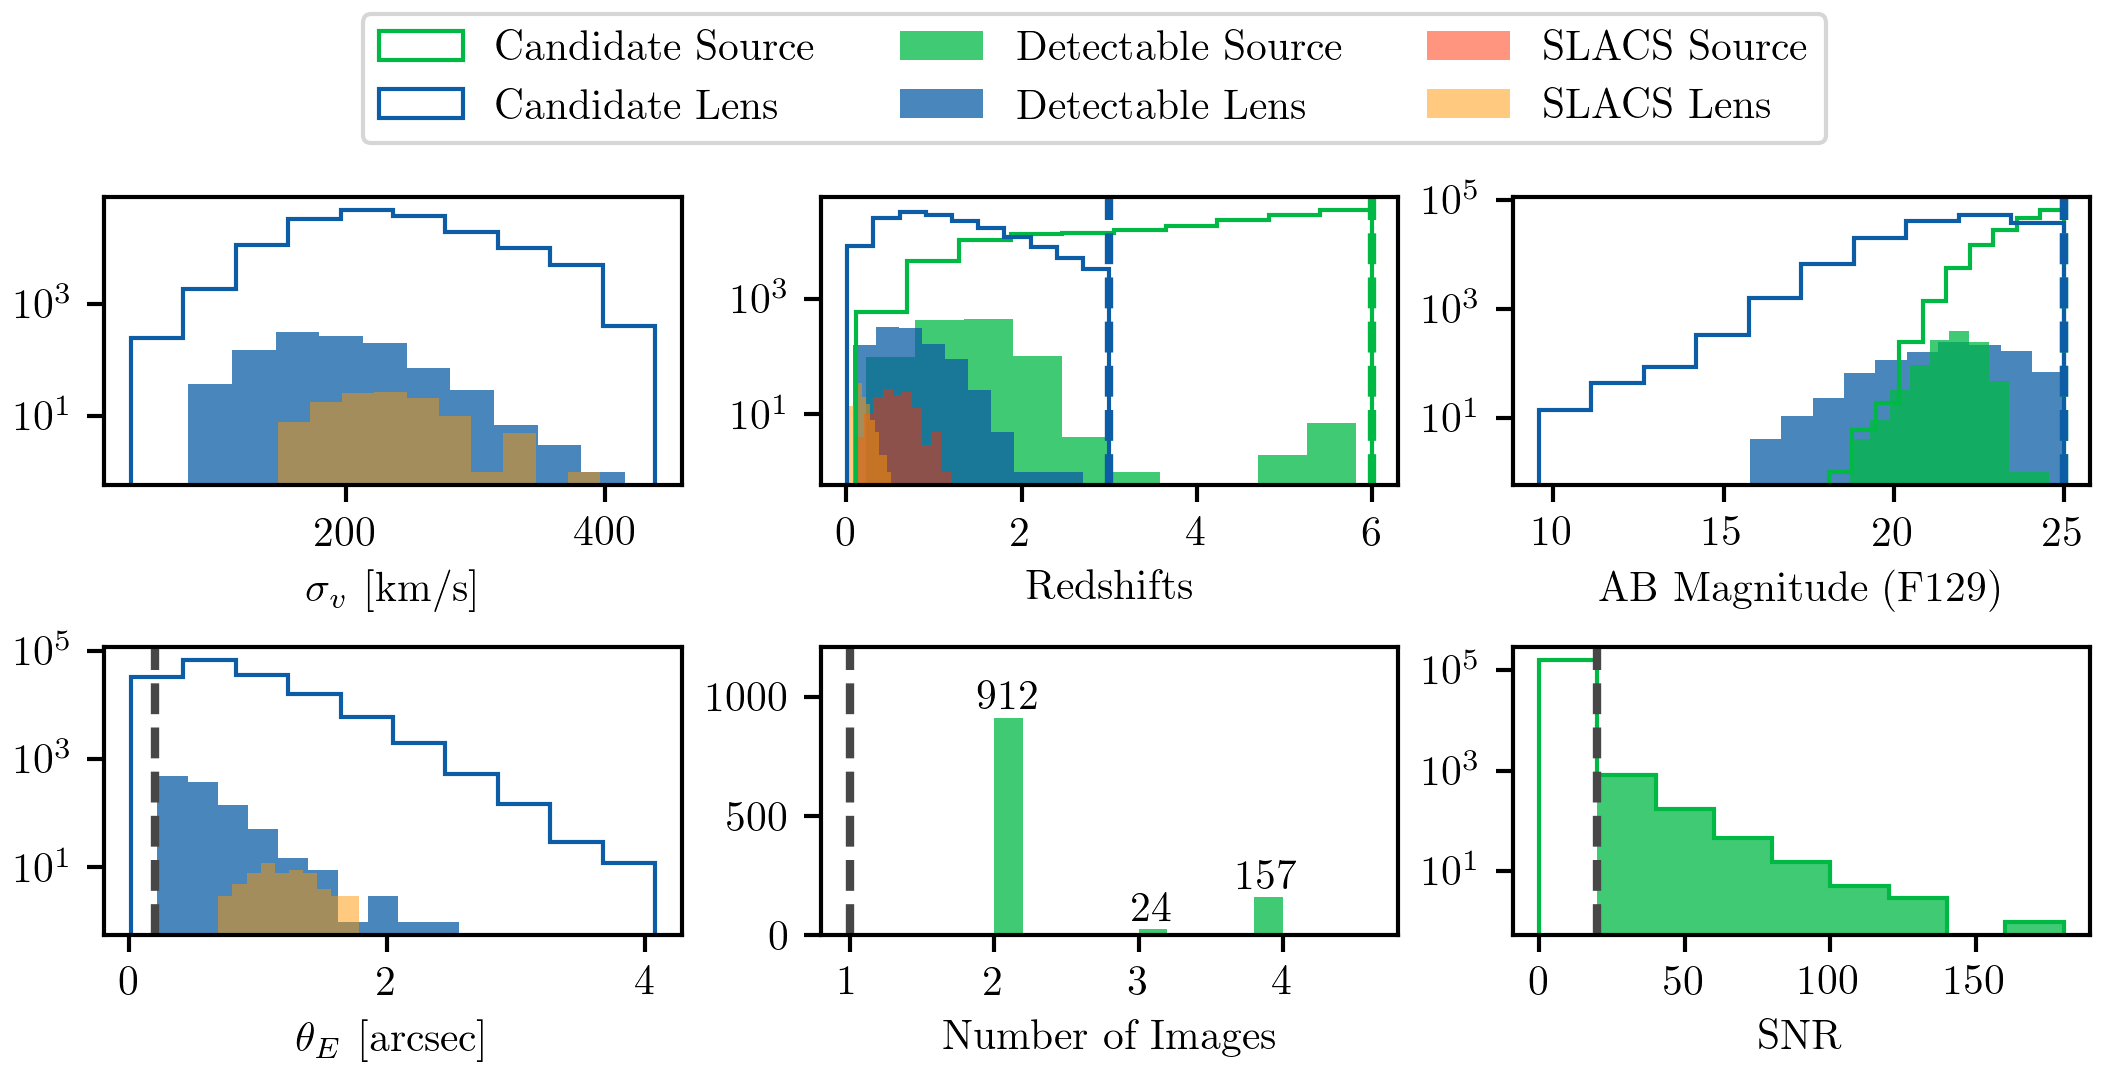
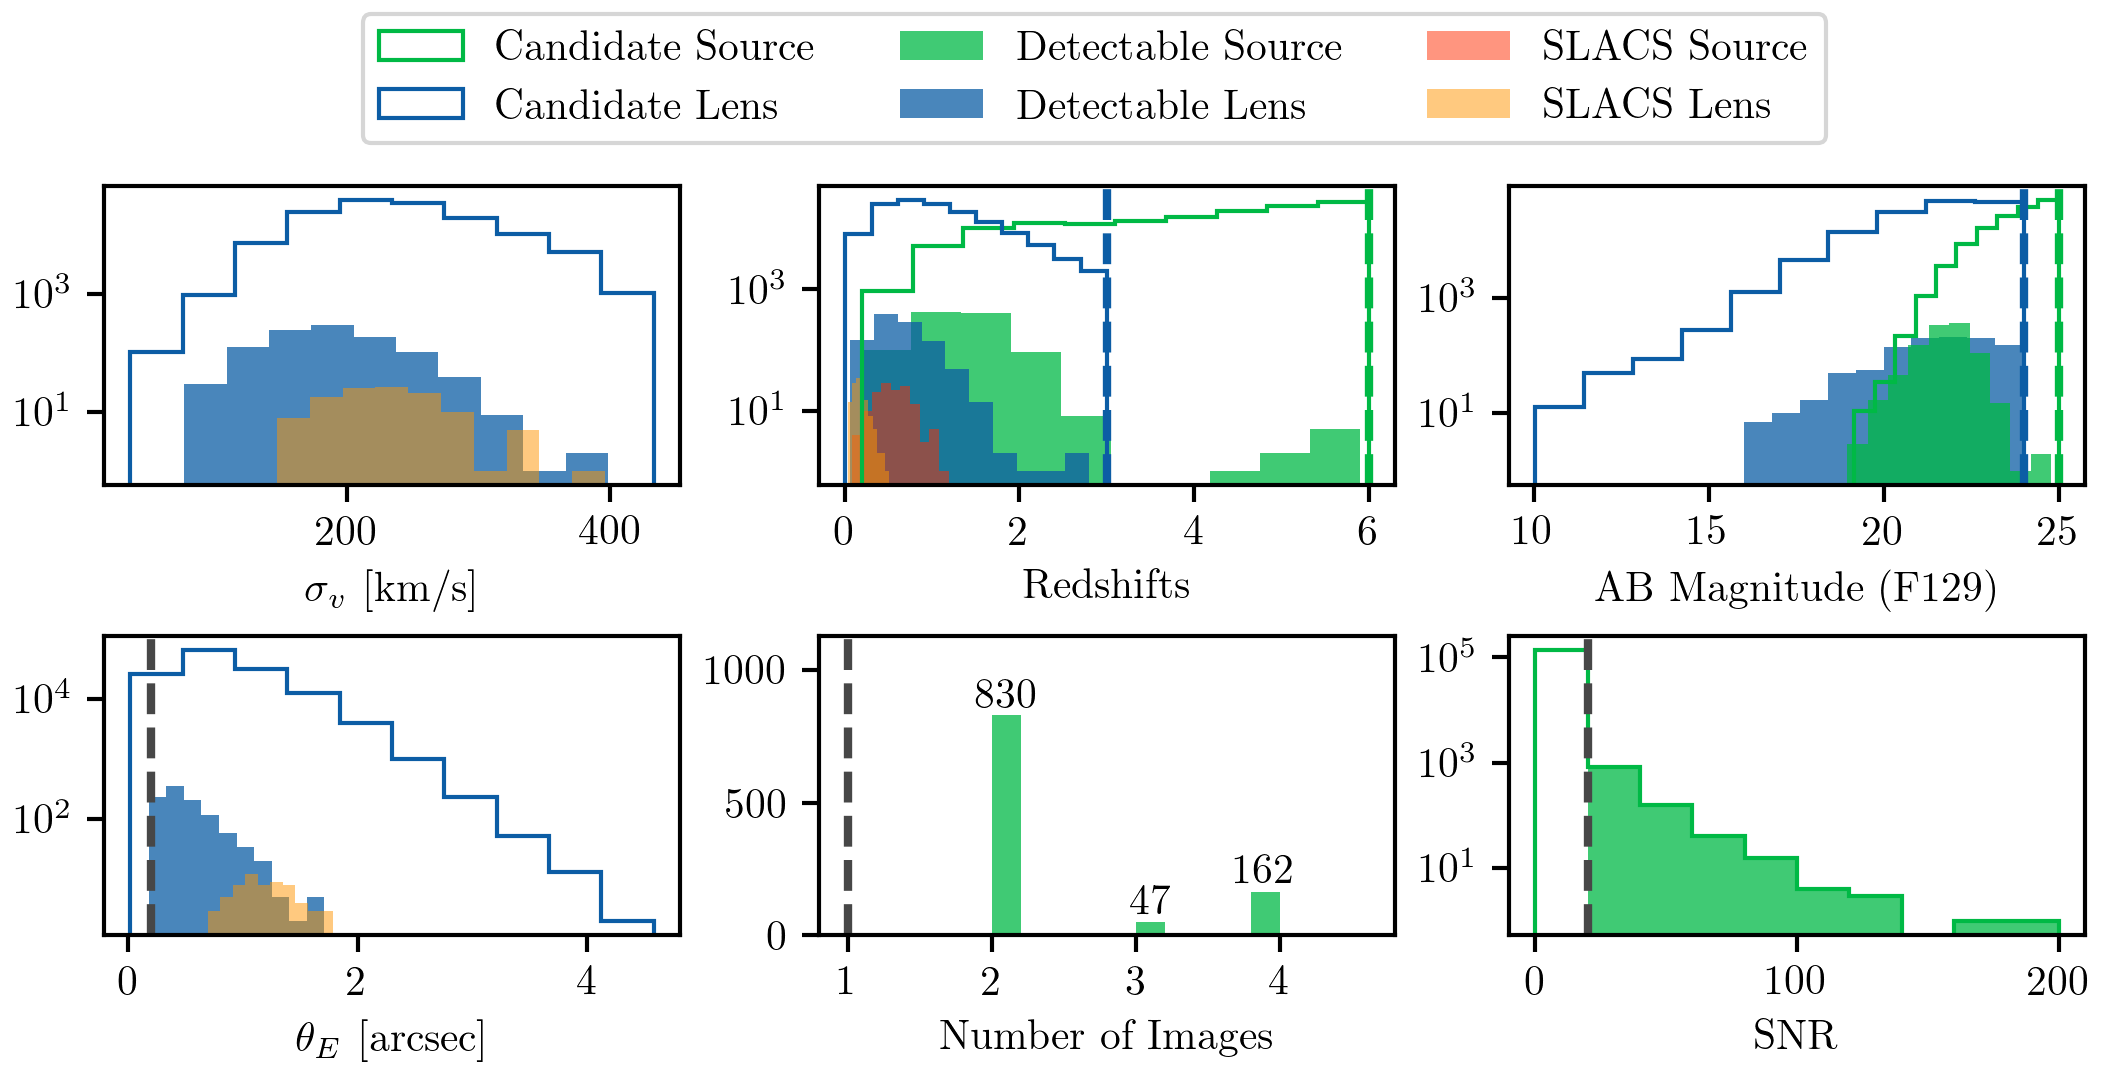
get 10k detectable lenses

diff --git a/pipeline/scripts/00_hlwas_sim.py b/pipeline/scripts/00_hlwas_sim.py
@@ -52,6 +52,8 @@ def main(config):
         print(f'Set up debugging directory {debug_dir}')
         util.create_directory_if_not_exists(os.path.join(debug_dir, 'max_recursion_limit'))
         util.create_directory_if_not_exists(os.path.join(debug_dir, 'snr'))
+    else:
+        debug_dir = None
 
     # tuple the parameters
     runs = survey_params['runs']
@@ -161,47 +163,48 @@ def run_slsim(tuple):
     if debugging: print('Defined galaxy population')
 
     # draw the total lens population
-    if debugging: print('Identifying lenses...')
-    kwargs_lens_total_cut = {
-        'min_image_separation': 0,
-        'max_image_separation': 10,
-        'mag_arc_limit': None
-    }
-    total_lens_population = lens_pop.draw_population(kwargs_lens_cuts=kwargs_lens_total_cut)
-    if debugging: print(f'Number of total lenses: {len(total_lens_population)}')
+    if survey_params['total_population']:
+        if debugging: print('Identifying lenses...')
+        kwargs_lens_total_cut = {
+            'min_image_separation': 0,
+            'max_image_separation': 10,
+            'mag_arc_limit': None
+        }
+        total_lens_population = lens_pop.draw_population(kwargs_lens_cuts=kwargs_lens_total_cut)
+        if debugging: print(f'Number of total lenses: {len(total_lens_population)}')
 
-    # compute SNRs and save
-    if debugging: print(f'Computing SNRs for {len(total_lens_population)} lenses')
-    snr_list = []
-    # j = 0
-    for candidate in tqdm(total_lens_population, disable=not debugging):
-        snr, _, _, _ = survey_sim.get_snr(candidate, 
-                                          band=survey_params['snr_band'], 
-                                          num_pix=survey_params['snr_num_pix'], 
-                                          side=survey_params['snr_side'], 
-                                          oversample=survey_params['snr_oversample'], 
-                                          debugging=False)
-        if snr is None:
-            continue
-        snr_list.append(snr)
-        # if debugging:
-        #     if j < 25:
-        #         util.pickle(os.path.join(output_dir, f'masked_snr_array_{str(j).zfill(8)}.pkl'), masked_snr_array)
-        #         util.pickle(os.path.join(output_dir, f'masked_snr_array_snr_{str(j).zfill(8)}.pkl'), snr)
-        # j += 1
-    np.save(os.path.join(output_dir, f'snr_list_{run}_sca{sca_id}.npy'), snr_list)
+        # compute SNRs and save
+        if debugging: print(f'Computing SNRs for {len(total_lens_population)} lenses')
+        snr_list = []
+        # j = 0
+        for candidate in tqdm(total_lens_population, disable=not debugging):
+            snr, _, _, _ = survey_sim.get_snr(candidate, 
+                                            band=survey_params['snr_band'], 
+                                            num_pix=survey_params['snr_num_pix'], 
+                                            side=survey_params['snr_side'], 
+                                            oversample=survey_params['snr_oversample'], 
+                                            debugging=False)
+            if snr is None:
+                continue
+            snr_list.append(snr)
+            # if debugging:
+            #     if j < 25:
+            #         util.pickle(os.path.join(output_dir, f'masked_snr_array_{str(j).zfill(8)}.pkl'), masked_snr_array)
+            #         util.pickle(os.path.join(output_dir, f'masked_snr_array_snr_{str(j).zfill(8)}.pkl'), snr)
+            # j += 1
+        np.save(os.path.join(output_dir, f'snr_list_{run}_sca{sca_id}.npy'), snr_list)
 
-    if debugging:
-        num_exceptions = len([snr for snr in snr_list if snr is None])
-        print(f'Number of exceptions: {num_exceptions}; {num_exceptions / len(snr_list) * 100:.2f}%')
+        if debugging:
+            num_exceptions = len([snr for snr in snr_list if snr is None])
+            print(f'Number of exceptions: {num_exceptions}; {num_exceptions / len(snr_list) * 100:.2f}%')
 
-    # TODO once get_regions issue(s) resolved, the following line should be reinstated
-    # assert len(total_lens_population) == len(snr_list), f'Lengths of total_lens_population ({len(total_lens_population)}) and snr_list ({len(snr_list)}) do not match.'
+        # TODO once get_regions issue(s) resolved, the following line should be reinstated
+        # assert len(total_lens_population) == len(snr_list), f'Lengths of total_lens_population ({len(total_lens_population)}) and snr_list ({len(snr_list)}) do not match.'
 
-    # save other params to CSV
-    total_pop_csv = os.path.join(output_dir, f'total_pop_{run}_sca{sca_id}.csv')
-    if debugging: print(f'Writing total population to {total_pop_csv}')
-    survey_sim.write_lens_pop_to_csv(total_pop_csv, total_lens_population, snr_list, bands, suppress_output=not debugging)
+        # save other params to CSV
+        total_pop_csv = os.path.join(output_dir, f'total_pop_{run}_sca{sca_id}.csv')
+        if debugging: print(f'Writing total population to {total_pop_csv}')
+        survey_sim.write_lens_pop_to_csv(total_pop_csv, total_lens_population, snr_list, bands, suppress_output=not debugging)
 
     # draw initial detectable lens population
     if debugging: print('Identifying detectable lenses...')
@@ -240,7 +243,7 @@ def run_slsim(tuple):
         # 2. SNR
         snr, masked_snr_array, snr_list, overall_snr = survey_sim.get_snr(candidate, 
                                                                           band=survey_params['snr_band'], num_pix=survey_params['snr_num_pix'], side=survey_params['snr_side'], oversample=survey_params['snr_oversample'], 
-                                                                          debugging=True,
+                                                                          debugging=debugging,
                                                                           debug_dir=debug_dir)
         if snr is None:
             continue
